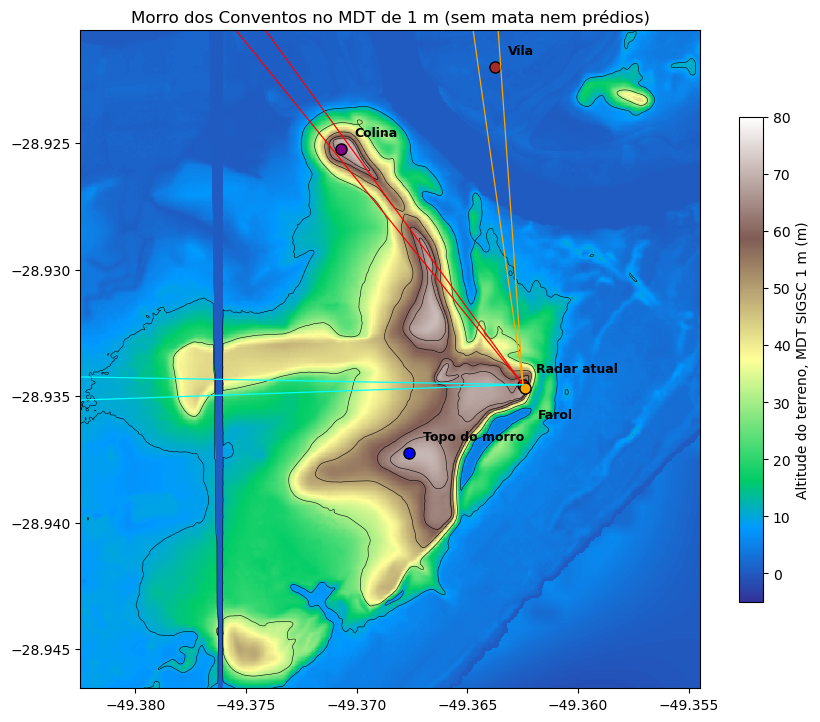
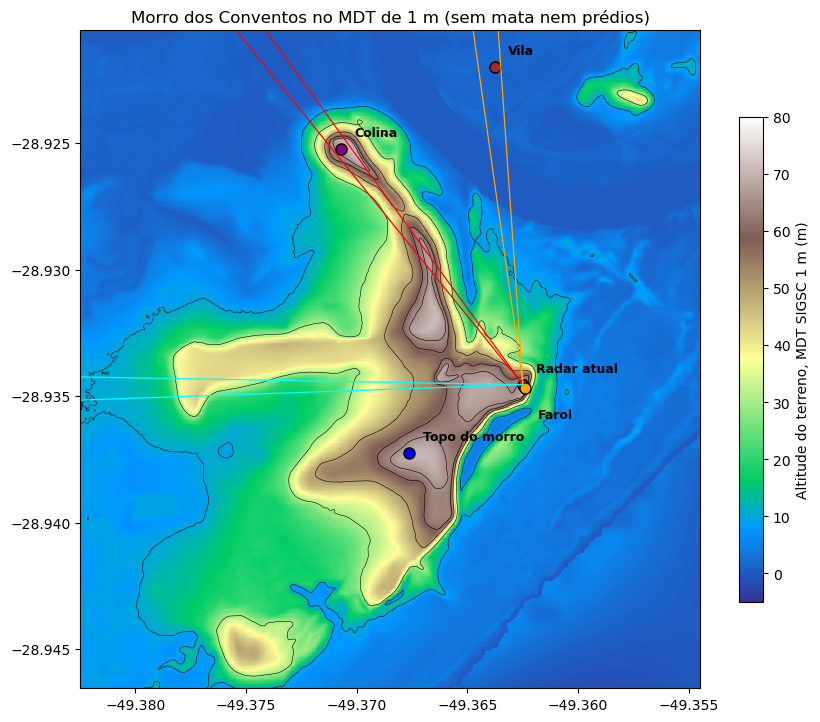
Imagens das últimas 8 h; corrige emendas do MDT do SIGSC
- recentes/: Chapecó e Araranguá até 20/11 14:12 UTC (Urubici sem imagens na REDEMET desde 16/11)
- relevo_sigsc.py: mosaico de 1 m usa o maior valor nas sobreposições, eliminando a moldura
  de 0/-9999 m das folhas que aparecia como faixa falsa no morro
- figuras e tabelas refeitas (números inalterados); nota no relatório

Changed region(s): [[0.2439, 0.3352, 0.2744, 0.9446], [0.2439, 0.2133, 0.2744, 0.3047]]

diff --git a/index.html b/index.html
@@ -39,8 +39,8 @@ footer { max-width: 1200px; margin: 0 auto; padding: 16px 16px 32px; color: var(
   <h1>Radar SC, últimas 6 horas</h1>
   <p>Radares de Santa Catarina: volumes do FTP da Defesa Civil de SC desenhados por <code>baixar_ftp_sc.py</code>. Abre no quadro mais recente.</p>
 </header>
-<main><figure class="cartao laco" data-quadros="[{&quot;src&quot;: &quot;recentes/ara/ppi/20261119_171651.png&quot;, &quot;rotulo&quot;: &quot;19/11 14:16 local · 17:16 UTC&quot;}, {&quot;src&quot;: &quot;recentes/ara/ppi/20261119_173115.png&quot;, &quot;rotulo&quot;: &quot;19/11 14:31 local · 17:31 UTC&quot;}, {&quot;src&quot;: &quot;recentes/ara/ppi/20261119_173521.png&quot;, &quot;rotulo&quot;: &quot;19/11 14:35 local · 17:35 UTC&quot;}, {&quot;src&quot;: &quot;recentes/ara/ppi/20261119_173724.png&quot;, &quot;rotulo&quot;: &quot;19/11 14:37 local · 17:37 UTC&quot;}, {&quot;src&quot;: &quot;recentes/ara/ppi/20261119_173926.png&quot;, &quot;rotulo&quot;: &quot;19/11 14:39 local · 17:39 UTC&quot;}, {&quot;src&quot;: &quot;recentes/ara/ppi/20261119_174129.png&quot;, &quot;rotulo&quot;: &quot;19/11 14:41 local · 17:41 UTC&quot;}, {&quot;src&quot;: &quot;recentes/ara/ppi/20261119_174332.png&quot;, &quot;rotulo&quot;: &quot;19/11 14:43 local · 17:43 UTC&quot;}, {&quot;src&quot;: &quot;recentes/ara/ppi/20261119_174536.png&quot;, &quot;rotulo&quot;: &quot;19/11 14:45 local · 17:45 UTC&quot;}, {&quot;src&quot;: &quot;recentes/ara/ppi/20261119_174739.png&quot;, &quot;rotulo&quot;: &quot;19/11 14:47 local · 17:47 UTC&quot;}, {&quot;src&quot;: &quot;recentes/ara/ppi/20261119_175553.png&quot;, &quot;rotulo&quot;: &quot;19/11 14:55 local · 17:55 UTC&quot;}, {&quot;src&quot;: &quot;recentes/ara/ppi/20261119_181015.png&quot;, &quot;rotulo&quot;: &quot;19/11 15:10 local · 18:10 UTC&quot;}, {&quot;src&quot;: &quot;recentes/ara/ppi/20261119_181218.png&quot;, &quot;rotulo&quot;: &quot;19/11 15:12 local · 18:12 UTC&quot;}, {&quot;src&quot;: &quot;recentes/ara/ppi/20261119_181624.png&quot;, &quot;rotulo&quot;: &quot;19/11 15:16 local · 18:16 UTC&quot;}, {&quot;src&quot;: &quot;recentes/ara/ppi/20261119_183452.png&quot;, &quot;rotulo&quot;: &quot;19/11 15:34 local · 18:34 UTC&quot;}, {&quot;src&quot;: &quot;recentes/ara/ppi/20261119_183858.png&quot;, &quot;rotulo&quot;: &quot;19/11 15:38 local · 18:38 UTC&quot;}, {&quot;src&quot;: &quot;recentes/ara/ppi/20261119_184507.png&quot;, &quot;rotulo&quot;: &quot;19/11 15:45 local · 18:45 UTC&quot;}, {&quot;src&quot;: &quot;recentes/ara/ppi/20261119_184913.png&quot;, &quot;rotulo&quot;: &quot;19/11 15:49 local · 18:49 UTC&quot;}, {&quot;src&quot;: &quot;recentes/ara/ppi/20261119_185116.png&quot;, &quot;rotulo&quot;: &quot;19/11 15:51 local · 18:51 UTC&quot;}, {&quot;src&quot;: &quot;recentes/ara/ppi/20261119_185522.png&quot;, &quot;rotulo&quot;: &quot;19/11 15:55 local · 18:55 UTC&quot;}, {&quot;src&quot;: &quot;recentes/ara/ppi/20261119_185725.png&quot;, &quot;rotulo&quot;: &quot;19/11 15:57 local · 18:57 UTC&quot;}, {&quot;src&quot;: &quot;recentes/ara/ppi/20261119_190540.png&quot;, &quot;rotulo&quot;: &quot;19/11 16:05 local · 19:05 UTC&quot;}, {&quot;src&quot;: &quot;recentes/ara/ppi/20261119_192408.png&quot;, &quot;rotulo&quot;: &quot;19/11 16:24 local · 19:24 UTC&quot;}, {&quot;src&quot;: &quot;recentes/ara/ppi/20261119_192612.png&quot;, &quot;rotulo&quot;: &quot;19/11 16:26 local · 19:26 UTC&quot;}, {&quot;src&quot;: &quot;recentes/ara/ppi/20261119_193018.png&quot;, &quot;rotulo&quot;: &quot;19/11 16:30 local · 19:30 UTC&quot;}, {&quot;src&quot;: &quot;recentes/ara/ppi/20261119_194236.png&quot;, &quot;rotulo&quot;: &quot;19/11 16:42 local · 19:42 UTC&quot;}, {&quot;src&quot;: &quot;recentes/ara/ppi/20261119_194440.png&quot;, &quot;rotulo&quot;: &quot;19/11 16:44 local · 19:44 UTC&quot;}, {&quot;src&quot;: &quot;recentes/ara/ppi/20261119_194644.png&quot;, &quot;rotulo&quot;: &quot;19/11 16:46 local · 19:46 UTC&quot;}, {&quot;src&quot;: &quot;recentes/ara/ppi/20261119_194847.png&quot;, &quot;rotulo&quot;: &quot;19/11 16:48 local · 19:48 UTC&quot;}, {&quot;src&quot;: &quot;recentes/ara/ppi/20261119_195659.png&quot;, &quot;rotulo&quot;: &quot;19/11 16:56 local · 19:56 UTC&quot;}, {&quot;src&quot;: &quot;recentes/ara/ppi/20261119_195902.png&quot;, &quot;rotulo&quot;: &quot;19/11 16:59 local · 19:59 UTC&quot;}, {&quot;src&quot;: &quot;recentes/ara/ppi/20261119_200513.png&quot;, &quot;rotulo&quot;: &quot;19/11 17:05 local · 20:05 UTC&quot;}, {&quot;src&quot;: &quot;recentes/ara/ppi/20261119_200919.png&quot;, &quot;rotulo&quot;: &quot;19/11 17:09 local · 20:09 UTC&quot;}, {&quot;src&quot;: &quot;recentes/ara/ppi/20261119_201325.png&quot;, &quot;rotulo&quot;: &quot;19/11 17:13 local · 20:13 UTC&quot;}, {&quot;src&quot;: &quot;recentes/ara/ppi/20261119_201933.png&quot;, &quot;rotulo&quot;: &quot;19/11 17:19 local · 20:19 UTC&quot;}, {&quot;src&quot;: &quot;recentes/ara/ppi/20261119_202136.png&quot;, &quot;rotulo&quot;: &quot;19/11 17:21 local · 20:21 UTC&quot;}, {&quot;src&quot;: &quot;recentes/ara/ppi/20261119_202542.png&quot;, &quot;rotulo&quot;: &quot;19/11 17:25 local · 20:25 UTC&quot;}, {&quot;src&quot;: &quot;recentes/ara/ppi/20261119_202745.png&quot;, &quot;rotulo&quot;: &quot;19/11 17:27 local · 20:27 UTC&quot;}, {&quot;src&quot;: &quot;recentes/ara/ppi/20261119_202948.png&quot;, &quot;rotulo&quot;: &quot;19/11 17:29 local · 20:29 UTC&quot;}, {&quot;src&quot;: &quot;recentes/ara/ppi/20261119_203151.png&quot;, &quot;rotulo&quot;: &quot;19/11 17:31 local · 20:31 UTC&quot;}, {&quot;src&quot;: &quot;recentes/ara/ppi/20261119_204207.png&quot;, &quot;rotulo&quot;: &quot;19/11 17:42 local · 20:42 UTC&quot;}, {&quot;src&quot;: &quot;recentes/ara/ppi/20261119_204410.png&quot;, &quot;rotulo&quot;: &quot;19/11 17:44 local · 20:44 UTC&quot;}, {&quot;src&quot;: &quot;recentes/ara/ppi/20261119_204613.png&quot;, &quot;rotulo&quot;: &quot;19/11 17:46 local · 20:46 UTC&quot;}, {&quot;src&quot;: &quot;recentes/ara/ppi/20261119_205223.png&quot;, &quot;rotulo&quot;: &quot;19/11 17:52 local · 20:52 UTC&quot;}, {&quot;src&quot;: &quot;recentes/ara/ppi/20261119_210444.png&quot;, &quot;rotulo&quot;: &quot;19/11 18:04 local · 21:04 UTC&quot;}, {&quot;src&quot;: &quot;recentes/ara/ppi/20261119_210850.png&quot;, &quot;rotulo&quot;: &quot;19/11 18:08 local · 21:08 UTC&quot;}, {&quot;src&quot;: &quot;recentes/ara/ppi/20261119_211256.png&quot;, &quot;rotulo&quot;: &quot;19/11 18:12 local · 21:12 UTC&quot;}, {&quot;src&quot;: &quot;recentes/ara/ppi/20261119_212517.png&quot;, &quot;rotulo&quot;: &quot;19/11 18:25 local · 21:25 UTC&quot;}, {&quot;src&quot;: &quot;recentes/ara/ppi/20261119_212924.png&quot;, &quot;rotulo&quot;: &quot;19/11 18:29 local · 21:29 UTC&quot;}, {&quot;src&quot;: &quot;recentes/ara/ppi/20261119_213738.png&quot;, &quot;rotulo&quot;: &quot;19/11 18:37 local · 21:37 UTC&quot;}, {&quot;src&quot;: &quot;recentes/ara/ppi/20261119_214550.png&quot;, &quot;rotulo&quot;: &quot;19/11 18:45 local · 21:45 UTC&quot;}, {&quot;src&quot;: &quot;recentes/ara/ppi/20261119_215204.png&quot;, &quot;rotulo&quot;: &quot;19/11 18:52 local · 21:52 UTC&quot;}, {&quot;src&quot;: &quot;recentes/ara/ppi/20261119_230358.png&quot;, &quot;rotulo&quot;: &quot;19/11 20:03 local · 23:03 UTC&quot;}, {&quot;src&quot;: &quot;recentes/ara/ppi/20261119_230601.png&quot;, &quot;rotulo&quot;: &quot;19/11 20:06 local · 23:06 UTC&quot;}, {&quot;src&quot;: &quot;recentes/ara/ppi/20261119_231413.png&quot;, &quot;rotulo&quot;: &quot;19/11 20:14 local · 23:14 UTC&quot;}, {&quot;src&quot;: &quot;recentes/ara/ppi/20261119_233648.png&quot;, &quot;rotulo&quot;: &quot;19/11 20:36 local · 23:36 UTC&quot;}]"><div class="quadro"><img src="recentes/ara/ppi/20261119_233648.png" alt="Araranguá (Defesa Civil SC) · refletividade, elevação mais baixa"></div><div class="controles"><button type="button" class="tocar" aria-label="Tocar">▶</button><input type="range" min="0" max="54" value="54" aria-label="Quadro"><select aria-label="Velocidade"><option value="900">lento</option><option value="450" selected>normal</option><option value="180">rápido</option></select><output>19/11 20:36 local · 23:36 UTC</output></div><figcaption><h2>Araranguá (Defesa Civil SC) · refletividade, elevação mais baixa</h2><p>55 quadros, de 19/11 14:16 local · 17:16 UTC a 19/11 20:36 local · 23:36 UTC.</p></figcaption></figure><figure class="cartao laco" data-quadros="[{&quot;src&quot;: &quot;recentes/chp/ppi/20261119_171204.png&quot;, &quot;rotulo&quot;: &quot;19/11 14:12 local · 17:12 UTC&quot;}, {&quot;src&quot;: &quot;recentes/chp/ppi/20261119_171804.png&quot;, &quot;rotulo&quot;: &quot;19/11 14:18 local · 17:18 UTC&quot;}, {&quot;src&quot;: &quot;recentes/chp/ppi/20261119_172404.png&quot;, &quot;rotulo&quot;: &quot;19/11 14:24 local · 17:24 UTC&quot;}, {&quot;src&quot;: &quot;recentes/chp/ppi/20261119_173004.png&quot;, &quot;rotulo&quot;: &quot;19/11 14:30 local · 17:30 UTC&quot;}, {&quot;src&quot;: &quot;recentes/chp/ppi/20261119_173604.png&quot;, &quot;rotulo&quot;: &quot;19/11 14:36 local · 17:36 UTC&quot;}, {&quot;src&quot;: &quot;recentes/chp/ppi/20261119_174204.png&quot;, &quot;rotulo&quot;: &quot;19/11 14:42 local · 17:42 UTC&quot;}, {&quot;src&quot;: &quot;recentes/chp/ppi/20261119_174804.png&quot;, &quot;rotulo&quot;: &quot;19/11 14:48 local · 17:48 UTC&quot;}, {&quot;src&quot;: &quot;recentes/chp/ppi/20261119_175404.png&quot;, &quot;rotulo&quot;: &quot;19/11 14:54 local · 17:54 UTC&quot;}, {&quot;src&quot;: &quot;recentes/chp/ppi/20261119_180004.png&quot;, &quot;rotulo&quot;: &quot;19/11 15:00 local · 18:00 UTC&quot;}, {&quot;src&quot;: &quot;recentes/chp/ppi/20261119_180604.png&quot;, &quot;rotulo&quot;: &quot;19/11 15:06 local · 18:06 UTC&quot;}, {&quot;src&quot;: &quot;recentes/chp/ppi/20261119_181204.png&quot;, &quot;rotulo&quot;: &quot;19/11 15:12 local · 18:12 UTC&quot;}, {&quot;src&quot;: &quot;recentes/chp/ppi/20261119_181804.png&quot;, &quot;rotulo&quot;: &quot;19/11 15:18 local · 18:18 UTC&quot;}, {&quot;src&quot;: &quot;recentes/chp/ppi/20261119_182404.png&quot;, &quot;rotulo&quot;: &quot;19/11 15:24 local · 18:24 UTC&quot;}, {&quot;src&quot;: &quot;recentes/chp/ppi/20261119_183004.png&quot;, &quot;rotulo&quot;: &quot;19/11 15:30 local · 18:30 UTC&quot;}, {&quot;src&quot;: &quot;recentes/chp/ppi/20261119_183604.png&quot;, &quot;rotulo&quot;: &quot;19/11 15:36 local · 18:36 UTC&quot;}, {&quot;src&quot;: &quot;recentes/chp/ppi/20261119_184204.png&quot;, &quot;rotulo&quot;: &quot;19/11 15:42 local · 18:42 UTC&quot;}, {&quot;src&quot;: &quot;recentes/chp/ppi/20261119_184804.png&quot;, &quot;rotulo&quot;: &quot;19/11 15:48 local · 18:48 UTC&quot;}, {&quot;src&quot;: &quot;recentes/chp/ppi/20261119_185404.png&quot;, &quot;rotulo&quot;: &quot;19/11 15:54 local · 18:54 UTC&quot;}, {&quot;src&quot;: &quot;recentes/chp/ppi/20261119_190004.png&quot;, &quot;rotulo&quot;: &quot;19/11 16:00 local · 19:00 UTC&quot;}, {&quot;src&quot;: &quot;recentes/chp/ppi/20261119_190604.png&quot;, &quot;rotulo&quot;: &quot;19/11 16:06 local · 19:06 UTC&quot;}, {&quot;src&quot;: &quot;recentes/chp/ppi/20261119_191204.png&quot;, &quot;rotulo&quot;: &quot;19/11 16:12 local · 19:12 UTC&quot;}, {&quot;src&quot;: &quot;recentes/chp/ppi/20261119_191804.png&quot;, &quot;rotulo&quot;: &quot;19/11 16:18 local · 19:18 UTC&quot;}, {&quot;src&quot;: &quot;recentes/chp/ppi/20261119_193604.png&quot;, &quot;rotulo&quot;: &quot;19/11 16:36 local · 19:36 UTC&quot;}, {&quot;src&quot;: &quot;recentes/chp/ppi/20261119_195404.png&quot;, &quot;rotulo&quot;: &quot;19/11 16:54 local · 19:54 UTC&quot;}, {&quot;src&quot;: &quot;recentes/chp/ppi/20261119_200004.png&quot;, &quot;rotulo&quot;: &quot;19/11 17:00 local · 20:00 UTC&quot;}, {&quot;src&quot;: &quot;recentes/chp/ppi/20261119_200604.png&quot;, &quot;rotulo&quot;: &quot;19/11 17:06 local · 20:06 UTC&quot;}, {&quot;src&quot;: &quot;recentes/chp/ppi/20261119_201204.png&quot;, &quot;rotulo&quot;: &quot;19/11 17:12 local · 20:12 UTC&quot;}, {&quot;src&quot;: &quot;recentes/chp/ppi/20261119_201804.png&quot;, &quot;rotulo&quot;: &quot;19/11 17:18 local · 20:18 UTC&quot;}, {&quot;src&quot;: &quot;recentes/chp/ppi/20261119_202404.png&quot;, &quot;rotulo&quot;: &quot;19/11 17:24 local · 20:24 UTC&quot;}, {&quot;src&quot;: &quot;recentes/chp/ppi/20261119_203004.png&quot;, &quot;rotulo&quot;: &quot;19/11 17:30 local · 20:30 UTC&quot;}, {&quot;src&quot;: &quot;recentes/chp/ppi/20261119_203604.png&quot;, &quot;rotulo&quot;: &quot;19/11 17:36 local · 20:36 UTC&quot;}, {&quot;src&quot;: &quot;recentes/chp/ppi/20261119_204204.png&quot;, &quot;rotulo&quot;: &quot;19/11 17:42 local · 20:42 UTC&quot;}, {&quot;src&quot;: &quot;recentes/chp/ppi/20261119_204804.png&quot;, &quot;rotulo&quot;: &quot;19/11 17:48 local · 20:48 UTC&quot;}, {&quot;src&quot;: &quot;recentes/chp/ppi/20261119_205404.png&quot;, &quot;rotulo&quot;: &quot;19/11 17:54 local · 20:54 UTC&quot;}, {&quot;src&quot;: &quot;recentes/chp/ppi/20261119_210004.png&quot;, &quot;rotulo&quot;: &quot;19/11 18:00 local · 21:00 UTC&quot;}, {&quot;src&quot;: &quot;recentes/chp/ppi/20261119_210605.png&quot;, &quot;rotulo&quot;: &quot;19/11 18:06 local · 21:06 UTC&quot;}, {&quot;src&quot;: &quot;recentes/chp/ppi/20261119_211205.png&quot;, &quot;rotulo&quot;: &quot;19/11 18:12 local · 21:12 UTC&quot;}, {&quot;src&quot;: &quot;recentes/chp/ppi/20261119_211805.png&quot;, &quot;rotulo&quot;: &quot;19/11 18:18 local · 21:18 UTC&quot;}, {&quot;src&quot;: &quot;recentes/chp/ppi/20261119_212405.png&quot;, &quot;rotulo&quot;: &quot;19/11 18:24 local · 21:24 UTC&quot;}, {&quot;src&quot;: &quot;recentes/chp/ppi/20261119_213005.png&quot;, &quot;rotulo&quot;: &quot;19/11 18:30 local · 21:30 UTC&quot;}, {&quot;src&quot;: &quot;recentes/chp/ppi/20261119_213605.png&quot;, &quot;rotulo&quot;: &quot;19/11 18:36 local · 21:36 UTC&quot;}, {&quot;src&quot;: &quot;recentes/chp/ppi/20261119_214205.png&quot;, &quot;rotulo&quot;: &quot;19/11 18:42 local · 21:42 UTC&quot;}, {&quot;src&quot;: &quot;recentes/chp/ppi/20261119_214805.png&quot;, &quot;rotulo&quot;: &quot;19/11 18:48 local · 21:48 UTC&quot;}, {&quot;src&quot;: &quot;recentes/chp/ppi/20261119_215404.png&quot;, &quot;rotulo&quot;: &quot;19/11 18:54 local · 21:54 UTC&quot;}, {&quot;src&quot;: &quot;recentes/chp/ppi/20261119_220005.png&quot;, &quot;rotulo&quot;: &quot;19/11 19:00 local · 22:00 UTC&quot;}, {&quot;src&quot;: &quot;recentes/chp/ppi/20261119_220605.png&quot;, &quot;rotulo&quot;: &quot;19/11 19:06 local · 22:06 UTC&quot;}, {&quot;src&quot;: &quot;recentes/chp/ppi/20261119_221205.png&quot;, &quot;rotulo&quot;: &quot;19/11 19:12 local · 22:12 UTC&quot;}, {&quot;src&quot;: &quot;recentes/chp/ppi/20261119_221804.png&quot;, &quot;rotulo&quot;: &quot;19/11 19:18 local · 22:18 UTC&quot;}, {&quot;src&quot;: &quot;recentes/chp/ppi/20261119_222405.png&quot;, &quot;rotulo&quot;: &quot;19/11 19:24 local · 22:24 UTC&quot;}, {&quot;src&quot;: &quot;recentes/chp/ppi/20261119_223005.png&quot;, &quot;rotulo&quot;: &quot;19/11 19:30 local · 22:30 UTC&quot;}, {&quot;src&quot;: &quot;recentes/chp/ppi/20261119_223605.png&quot;, &quot;rotulo&quot;: &quot;19/11 19:36 local · 22:36 UTC&quot;}, {&quot;src&quot;: &quot;recentes/chp/ppi/20261119_224205.png&quot;, &quot;rotulo&quot;: &quot;19/11 19:42 local · 22:42 UTC&quot;}, {&quot;src&quot;: &quot;recentes/chp/ppi/20261119_224805.png&quot;, &quot;rotulo&quot;: &quot;19/11 19:48 local · 22:48 UTC&quot;}, {&quot;src&quot;: &quot;recentes/chp/ppi/20261119_225405.png&quot;, &quot;rotulo&quot;: &quot;19/11 19:54 local · 22:54 UTC&quot;}, {&quot;src&quot;: &quot;recentes/chp/ppi/20261119_230005.png&quot;, &quot;rotulo&quot;: &quot;19/11 20:00 local · 23:00 UTC&quot;}, {&quot;src&quot;: &quot;recentes/chp/ppi/20261119_230605.png&quot;, &quot;rotulo&quot;: &quot;19/11 20:06 local · 23:06 UTC&quot;}]"><div class="quadro"><img src="recentes/chp/ppi/20261119_230605.png" alt="Chapecó (Defesa Civil SC) · refletividade, elevação mais baixa"></div><div class="controles"><button type="button" class="tocar" aria-label="Tocar">▶</button><input type="range" min="0" max="55" value="55" aria-label="Quadro"><select aria-label="Velocidade"><option value="900">lento</option><option value="450" selected>normal</option><option value="180">rápido</option></select><output>19/11 20:06 local · 23:06 UTC</output></div><figcaption><h2>Chapecó (Defesa Civil SC) · refletividade, elevação mais baixa</h2><p>56 quadros, de 19/11 14:12 local · 17:12 UTC a 19/11 20:06 local · 23:06 UTC.</p></figcaption></figure></main>
-<footer>Atualizado em 19/11/2026 21:09 local (00:09 UTC). Fonte: Defesa Civil de SC.</footer>
+<main><figure class="cartao laco" data-quadros="[{&quot;src&quot;: &quot;recentes/ara/ppi/20261120_061508.png&quot;, &quot;rotulo&quot;: &quot;20/11 03:15 local · 06:15 UTC&quot;}, {&quot;src&quot;: &quot;recentes/ara/ppi/20261120_061711.png&quot;, &quot;rotulo&quot;: &quot;20/11 03:17 local · 06:17 UTC&quot;}, {&quot;src&quot;: &quot;recentes/ara/ppi/20261120_062118.png&quot;, &quot;rotulo&quot;: &quot;20/11 03:21 local · 06:21 UTC&quot;}, {&quot;src&quot;: &quot;recentes/ara/ppi/20261120_062321.png&quot;, &quot;rotulo&quot;: &quot;20/11 03:23 local · 06:23 UTC&quot;}, {&quot;src&quot;: &quot;recentes/ara/ppi/20261120_062932.png&quot;, &quot;rotulo&quot;: &quot;20/11 03:29 local · 06:29 UTC&quot;}, {&quot;src&quot;: &quot;recentes/ara/ppi/20261120_064150.png&quot;, &quot;rotulo&quot;: &quot;20/11 03:41 local · 06:41 UTC&quot;}, {&quot;src&quot;: &quot;recentes/ara/ppi/20261120_064556.png&quot;, &quot;rotulo&quot;: &quot;20/11 03:45 local · 06:45 UTC&quot;}, {&quot;src&quot;: &quot;recentes/ara/ppi/20261120_065002.png&quot;, &quot;rotulo&quot;: &quot;20/11 03:50 local · 06:50 UTC&quot;}, {&quot;src&quot;: &quot;recentes/ara/ppi/20261120_065205.png&quot;, &quot;rotulo&quot;: &quot;20/11 03:52 local · 06:52 UTC&quot;}, {&quot;src&quot;: &quot;recentes/ara/ppi/20261120_065611.png&quot;, &quot;rotulo&quot;: &quot;20/11 03:56 local · 06:56 UTC&quot;}, {&quot;src&quot;: &quot;recentes/ara/ppi/20261120_070017.png&quot;, &quot;rotulo&quot;: &quot;20/11 04:00 local · 07:00 UTC&quot;}, {&quot;src&quot;: &quot;recentes/ara/ppi/20261120_070220.png&quot;, &quot;rotulo&quot;: &quot;20/11 04:02 local · 07:02 UTC&quot;}, {&quot;src&quot;: &quot;recentes/ara/ppi/20261120_070423.png&quot;, &quot;rotulo&quot;: &quot;20/11 04:04 local · 07:04 UTC&quot;}, {&quot;src&quot;: &quot;recentes/ara/ppi/20261120_071438.png&quot;, &quot;rotulo&quot;: &quot;20/11 04:14 local · 07:14 UTC&quot;}, {&quot;src&quot;: &quot;recentes/ara/ppi/20261120_073508.png&quot;, &quot;rotulo&quot;: &quot;20/11 04:35 local · 07:35 UTC&quot;}, {&quot;src&quot;: &quot;recentes/ara/ppi/20261120_073914.png&quot;, &quot;rotulo&quot;: &quot;20/11 04:39 local · 07:39 UTC&quot;}, {&quot;src&quot;: &quot;recentes/ara/ppi/20261120_074726.png&quot;, &quot;rotulo&quot;: &quot;20/11 04:47 local · 07:47 UTC&quot;}, {&quot;src&quot;: &quot;recentes/ara/ppi/20261120_075132.png&quot;, &quot;rotulo&quot;: &quot;20/11 04:51 local · 07:51 UTC&quot;}, {&quot;src&quot;: &quot;recentes/ara/ppi/20261120_075335.png&quot;, &quot;rotulo&quot;: &quot;20/11 04:53 local · 07:53 UTC&quot;}, {&quot;src&quot;: &quot;recentes/ara/ppi/20261120_075944.png&quot;, &quot;rotulo&quot;: &quot;20/11 04:59 local · 07:59 UTC&quot;}, {&quot;src&quot;: &quot;recentes/ara/ppi/20261120_080146.png&quot;, &quot;rotulo&quot;: &quot;20/11 05:01 local · 08:01 UTC&quot;}, {&quot;src&quot;: &quot;recentes/ara/ppi/20261120_080553.png&quot;, &quot;rotulo&quot;: &quot;20/11 05:05 local · 08:05 UTC&quot;}, {&quot;src&quot;: &quot;recentes/ara/ppi/20261120_081000.png&quot;, &quot;rotulo&quot;: &quot;20/11 05:10 local · 08:10 UTC&quot;}, {&quot;src&quot;: &quot;recentes/ara/ppi/20261120_081203.png&quot;, &quot;rotulo&quot;: &quot;20/11 05:12 local · 08:12 UTC&quot;}, {&quot;src&quot;: &quot;recentes/ara/ppi/20261120_082218.png&quot;, &quot;rotulo&quot;: &quot;20/11 05:22 local · 08:22 UTC&quot;}, {&quot;src&quot;: &quot;recentes/ara/ppi/20261120_082420.png&quot;, &quot;rotulo&quot;: &quot;20/11 05:24 local · 08:24 UTC&quot;}, {&quot;src&quot;: &quot;recentes/ara/ppi/20261120_082623.png&quot;, &quot;rotulo&quot;: &quot;20/11 05:26 local · 08:26 UTC&quot;}, {&quot;src&quot;: &quot;recentes/ara/ppi/20261120_082826.png&quot;, &quot;rotulo&quot;: &quot;20/11 05:28 local · 08:28 UTC&quot;}, {&quot;src&quot;: &quot;recentes/ara/ppi/20261120_083232.png&quot;, &quot;rotulo&quot;: &quot;20/11 05:32 local · 08:32 UTC&quot;}, {&quot;src&quot;: &quot;recentes/ara/ppi/20261120_083435.png&quot;, &quot;rotulo&quot;: &quot;20/11 05:34 local · 08:34 UTC&quot;}, {&quot;src&quot;: &quot;recentes/ara/ppi/20261120_084247.png&quot;, &quot;rotulo&quot;: &quot;20/11 05:42 local · 08:42 UTC&quot;}, {&quot;src&quot;: &quot;recentes/ara/ppi/20261120_085100.png&quot;, &quot;rotulo&quot;: &quot;20/11 05:51 local · 08:51 UTC&quot;}, {&quot;src&quot;: &quot;recentes/ara/ppi/20261120_085302.png&quot;, &quot;rotulo&quot;: &quot;20/11 05:53 local · 08:53 UTC&quot;}, {&quot;src&quot;: &quot;recentes/ara/ppi/20261120_085505.png&quot;, &quot;rotulo&quot;: &quot;20/11 05:55 local · 08:55 UTC&quot;}, {&quot;src&quot;: &quot;recentes/ara/ppi/20261120_085708.png&quot;, &quot;rotulo&quot;: &quot;20/11 05:57 local · 08:57 UTC&quot;}, {&quot;src&quot;: &quot;recentes/ara/ppi/20261120_090114.png&quot;, &quot;rotulo&quot;: &quot;20/11 06:01 local · 09:01 UTC&quot;}, {&quot;src&quot;: &quot;recentes/ara/ppi/20261120_090521.png&quot;, &quot;rotulo&quot;: &quot;20/11 06:05 local · 09:05 UTC&quot;}, {&quot;src&quot;: &quot;recentes/ara/ppi/20261120_091130.png&quot;, &quot;rotulo&quot;: &quot;20/11 06:11 local · 09:11 UTC&quot;}, {&quot;src&quot;: &quot;recentes/ara/ppi/20261120_091536.png&quot;, &quot;rotulo&quot;: &quot;20/11 06:15 local · 09:15 UTC&quot;}, {&quot;src&quot;: &quot;recentes/ara/ppi/20261120_091739.png&quot;, &quot;rotulo&quot;: &quot;20/11 06:17 local · 09:17 UTC&quot;}, {&quot;src&quot;: &quot;recentes/ara/ppi/20261120_091942.png&quot;, &quot;rotulo&quot;: &quot;20/11 06:19 local · 09:19 UTC&quot;}, {&quot;src&quot;: &quot;recentes/ara/ppi/20261120_092145.png&quot;, &quot;rotulo&quot;: &quot;20/11 06:21 local · 09:21 UTC&quot;}, {&quot;src&quot;: &quot;recentes/ara/ppi/20261120_092957.png&quot;, &quot;rotulo&quot;: &quot;20/11 06:29 local · 09:29 UTC&quot;}, {&quot;src&quot;: &quot;recentes/ara/ppi/20261120_093809.png&quot;, &quot;rotulo&quot;: &quot;20/11 06:38 local · 09:38 UTC&quot;}, {&quot;src&quot;: &quot;recentes/ara/ppi/20261120_094012.png&quot;, &quot;rotulo&quot;: &quot;20/11 06:40 local · 09:40 UTC&quot;}, {&quot;src&quot;: &quot;recentes/ara/ppi/20261120_095027.png&quot;, &quot;rotulo&quot;: &quot;20/11 06:50 local · 09:50 UTC&quot;}, {&quot;src&quot;: &quot;recentes/ara/ppi/20261120_100654.png&quot;, &quot;rotulo&quot;: &quot;20/11 07:06 local · 10:06 UTC&quot;}, {&quot;src&quot;: &quot;recentes/ara/ppi/20261120_101304.png&quot;, &quot;rotulo&quot;: &quot;20/11 07:13 local · 10:13 UTC&quot;}, {&quot;src&quot;: &quot;recentes/ara/ppi/20261120_102929.png&quot;, &quot;rotulo&quot;: &quot;20/11 07:29 local · 10:29 UTC&quot;}, {&quot;src&quot;: &quot;recentes/ara/ppi/20261120_103741.png&quot;, &quot;rotulo&quot;: &quot;20/11 07:37 local · 10:37 UTC&quot;}, {&quot;src&quot;: &quot;recentes/ara/ppi/20261120_103944.png&quot;, &quot;rotulo&quot;: &quot;20/11 07:39 local · 10:39 UTC&quot;}, {&quot;src&quot;: &quot;recentes/ara/ppi/20261120_104147.png&quot;, &quot;rotulo&quot;: &quot;20/11 07:41 local · 10:41 UTC&quot;}, {&quot;src&quot;: &quot;recentes/ara/ppi/20261120_104554.png&quot;, &quot;rotulo&quot;: &quot;20/11 07:45 local · 10:45 UTC&quot;}, {&quot;src&quot;: &quot;recentes/ara/ppi/20261120_110624.png&quot;, &quot;rotulo&quot;: &quot;20/11 08:06 local · 11:06 UTC&quot;}, {&quot;src&quot;: &quot;recentes/ara/ppi/20261120_111232.png&quot;, &quot;rotulo&quot;: &quot;20/11 08:12 local · 11:12 UTC&quot;}, {&quot;src&quot;: &quot;recentes/ara/ppi/20261120_111841.png&quot;, &quot;rotulo&quot;: &quot;20/11 08:18 local · 11:18 UTC&quot;}, {&quot;src&quot;: &quot;recentes/ara/ppi/20261120_112044.png&quot;, &quot;rotulo&quot;: &quot;20/11 08:20 local · 11:20 UTC&quot;}, {&quot;src&quot;: &quot;recentes/ara/ppi/20261120_115737.png&quot;, &quot;rotulo&quot;: &quot;20/11 08:57 local · 11:57 UTC&quot;}, {&quot;src&quot;: &quot;recentes/ara/ppi/20261120_124449.png&quot;, &quot;rotulo&quot;: &quot;20/11 09:44 local · 12:44 UTC&quot;}, {&quot;src&quot;: &quot;recentes/ara/ppi/20261120_125306.png&quot;, &quot;rotulo&quot;: &quot;20/11 09:53 local · 12:53 UTC&quot;}, {&quot;src&quot;: &quot;recentes/ara/ppi/20261120_125915.png&quot;, &quot;rotulo&quot;: &quot;20/11 09:59 local · 12:59 UTC&quot;}, {&quot;src&quot;: &quot;recentes/ara/ppi/20261120_130525.png&quot;, &quot;rotulo&quot;: &quot;20/11 10:05 local · 13:05 UTC&quot;}, {&quot;src&quot;: &quot;recentes/ara/ppi/20261120_132559.png&quot;, &quot;rotulo&quot;: &quot;20/11 10:25 local · 13:25 UTC&quot;}, {&quot;src&quot;: &quot;recentes/ara/ppi/20261120_133208.png&quot;, &quot;rotulo&quot;: &quot;20/11 10:32 local · 13:32 UTC&quot;}, {&quot;src&quot;: &quot;recentes/ara/ppi/20261120_133818.png&quot;, &quot;rotulo&quot;: &quot;20/11 10:38 local · 13:38 UTC&quot;}, {&quot;src&quot;: &quot;recentes/ara/ppi/20261120_135036.png&quot;, &quot;rotulo&quot;: &quot;20/11 10:50 local · 13:50 UTC&quot;}, {&quot;src&quot;: &quot;recentes/ara/ppi/20261120_135645.png&quot;, &quot;rotulo&quot;: &quot;20/11 10:56 local · 13:56 UTC&quot;}, {&quot;src&quot;: &quot;recentes/ara/ppi/20261120_135848.png&quot;, &quot;rotulo&quot;: &quot;20/11 10:58 local · 13:58 UTC&quot;}, {&quot;src&quot;: &quot;recentes/ara/ppi/20261120_140700.png&quot;, &quot;rotulo&quot;: &quot;20/11 11:07 local · 14:07 UTC&quot;}]"><div class="quadro"><img src="recentes/ara/ppi/20261120_140700.png" alt="Araranguá (Defesa Civil SC) · refletividade, elevação mais baixa"></div><div class="controles"><button type="button" class="tocar" aria-label="Tocar">▶</button><input type="range" min="0" max="68" value="68" aria-label="Quadro"><select aria-label="Velocidade"><option value="900">lento</option><option value="450" selected>normal</option><option value="180">rápido</option></select><output>20/11 11:07 local · 14:07 UTC</output></div><figcaption><h2>Araranguá (Defesa Civil SC) · refletividade, elevação mais baixa</h2><p>69 quadros, de 20/11 03:15 local · 06:15 UTC a 20/11 11:07 local · 14:07 UTC.</p></figcaption></figure><figure class="cartao laco" data-quadros="[{&quot;src&quot;: &quot;recentes/chp/ppi/20261120_061804.png&quot;, &quot;rotulo&quot;: &quot;20/11 03:18 local · 06:18 UTC&quot;}, {&quot;src&quot;: &quot;recentes/chp/ppi/20261120_062404.png&quot;, &quot;rotulo&quot;: &quot;20/11 03:24 local · 06:24 UTC&quot;}, {&quot;src&quot;: &quot;recentes/chp/ppi/20261120_063004.png&quot;, &quot;rotulo&quot;: &quot;20/11 03:30 local · 06:30 UTC&quot;}, {&quot;src&quot;: &quot;recentes/chp/ppi/20261120_063604.png&quot;, &quot;rotulo&quot;: &quot;20/11 03:36 local · 06:36 UTC&quot;}, {&quot;src&quot;: &quot;recentes/chp/ppi/20261120_064204.png&quot;, &quot;rotulo&quot;: &quot;20/11 03:42 local · 06:42 UTC&quot;}, {&quot;src&quot;: &quot;recentes/chp/ppi/20261120_064804.png&quot;, &quot;rotulo&quot;: &quot;20/11 03:48 local · 06:48 UTC&quot;}, {&quot;src&quot;: &quot;recentes/chp/ppi/20261120_065404.png&quot;, &quot;rotulo&quot;: &quot;20/11 03:54 local · 06:54 UTC&quot;}, {&quot;src&quot;: &quot;recentes/chp/ppi/20261120_070004.png&quot;, &quot;rotulo&quot;: &quot;20/11 04:00 local · 07:00 UTC&quot;}, {&quot;src&quot;: &quot;recentes/chp/ppi/20261120_070604.png&quot;, &quot;rotulo&quot;: &quot;20/11 04:06 local · 07:06 UTC&quot;}, {&quot;src&quot;: &quot;recentes/chp/ppi/20261120_071204.png&quot;, &quot;rotulo&quot;: &quot;20/11 04:12 local · 07:12 UTC&quot;}, {&quot;src&quot;: &quot;recentes/chp/ppi/20261120_071804.png&quot;, &quot;rotulo&quot;: &quot;20/11 04:18 local · 07:18 UTC&quot;}, {&quot;src&quot;: &quot;recentes/chp/ppi/20261120_072404.png&quot;, &quot;rotulo&quot;: &quot;20/11 04:24 local · 07:24 UTC&quot;}, {&quot;src&quot;: &quot;recentes/chp/ppi/20261120_073004.png&quot;, &quot;rotulo&quot;: &quot;20/11 04:30 local · 07:30 UTC&quot;}, {&quot;src&quot;: &quot;recentes/chp/ppi/20261120_073604.png&quot;, &quot;rotulo&quot;: &quot;20/11 04:36 local · 07:36 UTC&quot;}, {&quot;src&quot;: &quot;recentes/chp/ppi/20261120_074204.png&quot;, &quot;rotulo&quot;: &quot;20/11 04:42 local · 07:42 UTC&quot;}, {&quot;src&quot;: &quot;recentes/chp/ppi/20261120_074804.png&quot;, &quot;rotulo&quot;: &quot;20/11 04:48 local · 07:48 UTC&quot;}, {&quot;src&quot;: &quot;recentes/chp/ppi/20261120_075404.png&quot;, &quot;rotulo&quot;: &quot;20/11 04:54 local · 07:54 UTC&quot;}, {&quot;src&quot;: &quot;recentes/chp/ppi/20261120_080004.png&quot;, &quot;rotulo&quot;: &quot;20/11 05:00 local · 08:00 UTC&quot;}, {&quot;src&quot;: &quot;recentes/chp/ppi/20261120_080604.png&quot;, &quot;rotulo&quot;: &quot;20/11 05:06 local · 08:06 UTC&quot;}, {&quot;src&quot;: &quot;recentes/chp/ppi/20261120_081204.png&quot;, &quot;rotulo&quot;: &quot;20/11 05:12 local · 08:12 UTC&quot;}, {&quot;src&quot;: &quot;recentes/chp/ppi/20261120_081804.png&quot;, &quot;rotulo&quot;: &quot;20/11 05:18 local · 08:18 UTC&quot;}, {&quot;src&quot;: &quot;recentes/chp/ppi/20261120_082404.png&quot;, &quot;rotulo&quot;: &quot;20/11 05:24 local · 08:24 UTC&quot;}, {&quot;src&quot;: &quot;recentes/chp/ppi/20261120_083004.png&quot;, &quot;rotulo&quot;: &quot;20/11 05:30 local · 08:30 UTC&quot;}, {&quot;src&quot;: &quot;recentes/chp/ppi/20261120_083604.png&quot;, &quot;rotulo&quot;: &quot;20/11 05:36 local · 08:36 UTC&quot;}, {&quot;src&quot;: &quot;recentes/chp/ppi/20261120_084204.png&quot;, &quot;rotulo&quot;: &quot;20/11 05:42 local · 08:42 UTC&quot;}, {&quot;src&quot;: &quot;recentes/chp/ppi/20261120_084804.png&quot;, &quot;rotulo&quot;: &quot;20/11 05:48 local · 08:48 UTC&quot;}, {&quot;src&quot;: &quot;recentes/chp/ppi/20261120_085404.png&quot;, &quot;rotulo&quot;: &quot;20/11 05:54 local · 08:54 UTC&quot;}, {&quot;src&quot;: &quot;recentes/chp/ppi/20261120_090004.png&quot;, &quot;rotulo&quot;: &quot;20/11 06:00 local · 09:00 UTC&quot;}, {&quot;src&quot;: &quot;recentes/chp/ppi/20261120_090604.png&quot;, &quot;rotulo&quot;: &quot;20/11 06:06 local · 09:06 UTC&quot;}, {&quot;src&quot;: &quot;recentes/chp/ppi/20261120_091204.png&quot;, &quot;rotulo&quot;: &quot;20/11 06:12 local · 09:12 UTC&quot;}, {&quot;src&quot;: &quot;recentes/chp/ppi/20261120_091804.png&quot;, &quot;rotulo&quot;: &quot;20/11 06:18 local · 09:18 UTC&quot;}, {&quot;src&quot;: &quot;recentes/chp/ppi/20261120_092404.png&quot;, &quot;rotulo&quot;: &quot;20/11 06:24 local · 09:24 UTC&quot;}, {&quot;src&quot;: &quot;recentes/chp/ppi/20261120_093004.png&quot;, &quot;rotulo&quot;: &quot;20/11 06:30 local · 09:30 UTC&quot;}, {&quot;src&quot;: &quot;recentes/chp/ppi/20261120_093604.png&quot;, &quot;rotulo&quot;: &quot;20/11 06:36 local · 09:36 UTC&quot;}, {&quot;src&quot;: &quot;recentes/chp/ppi/20261120_094204.png&quot;, &quot;rotulo&quot;: &quot;20/11 06:42 local · 09:42 UTC&quot;}, {&quot;src&quot;: &quot;recentes/chp/ppi/20261120_094804.png&quot;, &quot;rotulo&quot;: &quot;20/11 06:48 local · 09:48 UTC&quot;}, {&quot;src&quot;: &quot;recentes/chp/ppi/20261120_095404.png&quot;, &quot;rotulo&quot;: &quot;20/11 06:54 local · 09:54 UTC&quot;}, {&quot;src&quot;: &quot;recentes/chp/ppi/20261120_100004.png&quot;, &quot;rotulo&quot;: &quot;20/11 07:00 local · 10:00 UTC&quot;}, {&quot;src&quot;: &quot;recentes/chp/ppi/20261120_100604.png&quot;, &quot;rotulo&quot;: &quot;20/11 07:06 local · 10:06 UTC&quot;}, {&quot;src&quot;: &quot;recentes/chp/ppi/20261120_101204.png&quot;, &quot;rotulo&quot;: &quot;20/11 07:12 local · 10:12 UTC&quot;}, {&quot;src&quot;: &quot;recentes/chp/ppi/20261120_101804.png&quot;, &quot;rotulo&quot;: &quot;20/11 07:18 local · 10:18 UTC&quot;}, {&quot;src&quot;: &quot;recentes/chp/ppi/20261120_102404.png&quot;, &quot;rotulo&quot;: &quot;20/11 07:24 local · 10:24 UTC&quot;}, {&quot;src&quot;: &quot;recentes/chp/ppi/20261120_103004.png&quot;, &quot;rotulo&quot;: &quot;20/11 07:30 local · 10:30 UTC&quot;}, {&quot;src&quot;: &quot;recentes/chp/ppi/20261120_103604.png&quot;, &quot;rotulo&quot;: &quot;20/11 07:36 local · 10:36 UTC&quot;}, {&quot;src&quot;: &quot;recentes/chp/ppi/20261120_104204.png&quot;, &quot;rotulo&quot;: &quot;20/11 07:42 local · 10:42 UTC&quot;}, {&quot;src&quot;: &quot;recentes/chp/ppi/20261120_104804.png&quot;, &quot;rotulo&quot;: &quot;20/11 07:48 local · 10:48 UTC&quot;}, {&quot;src&quot;: &quot;recentes/chp/ppi/20261120_105404.png&quot;, &quot;rotulo&quot;: &quot;20/11 07:54 local · 10:54 UTC&quot;}, {&quot;src&quot;: &quot;recentes/chp/ppi/20261120_110004.png&quot;, &quot;rotulo&quot;: &quot;20/11 08:00 local · 11:00 UTC&quot;}, {&quot;src&quot;: &quot;recentes/chp/ppi/20261120_110604.png&quot;, &quot;rotulo&quot;: &quot;20/11 08:06 local · 11:06 UTC&quot;}, {&quot;src&quot;: &quot;recentes/chp/ppi/20261120_111204.png&quot;, &quot;rotulo&quot;: &quot;20/11 08:12 local · 11:12 UTC&quot;}, {&quot;src&quot;: &quot;recentes/chp/ppi/20261120_111804.png&quot;, &quot;rotulo&quot;: &quot;20/11 08:18 local · 11:18 UTC&quot;}, {&quot;src&quot;: &quot;recentes/chp/ppi/20261120_112404.png&quot;, &quot;rotulo&quot;: &quot;20/11 08:24 local · 11:24 UTC&quot;}, {&quot;src&quot;: &quot;recentes/chp/ppi/20261120_113004.png&quot;, &quot;rotulo&quot;: &quot;20/11 08:30 local · 11:30 UTC&quot;}, {&quot;src&quot;: &quot;recentes/chp/ppi/20261120_113604.png&quot;, &quot;rotulo&quot;: &quot;20/11 08:36 local · 11:36 UTC&quot;}, {&quot;src&quot;: &quot;recentes/chp/ppi/20261120_114204.png&quot;, &quot;rotulo&quot;: &quot;20/11 08:42 local · 11:42 UTC&quot;}, {&quot;src&quot;: &quot;recentes/chp/ppi/20261120_114804.png&quot;, &quot;rotulo&quot;: &quot;20/11 08:48 local · 11:48 UTC&quot;}, {&quot;src&quot;: &quot;recentes/chp/ppi/20261120_115404.png&quot;, &quot;rotulo&quot;: &quot;20/11 08:54 local · 11:54 UTC&quot;}, {&quot;src&quot;: &quot;recentes/chp/ppi/20261120_120004.png&quot;, &quot;rotulo&quot;: &quot;20/11 09:00 local · 12:00 UTC&quot;}, {&quot;src&quot;: &quot;recentes/chp/ppi/20261120_120604.png&quot;, &quot;rotulo&quot;: &quot;20/11 09:06 local · 12:06 UTC&quot;}, {&quot;src&quot;: &quot;recentes/chp/ppi/20261120_121205.png&quot;, &quot;rotulo&quot;: &quot;20/11 09:12 local · 12:12 UTC&quot;}, {&quot;src&quot;: &quot;recentes/chp/ppi/20261120_121805.png&quot;, &quot;rotulo&quot;: &quot;20/11 09:18 local · 12:18 UTC&quot;}, {&quot;src&quot;: &quot;recentes/chp/ppi/20261120_122405.png&quot;, &quot;rotulo&quot;: &quot;20/11 09:24 local · 12:24 UTC&quot;}, {&quot;src&quot;: &quot;recentes/chp/ppi/20261120_123005.png&quot;, &quot;rotulo&quot;: &quot;20/11 09:30 local · 12:30 UTC&quot;}, {&quot;src&quot;: &quot;recentes/chp/ppi/20261120_123605.png&quot;, &quot;rotulo&quot;: &quot;20/11 09:36 local · 12:36 UTC&quot;}, {&quot;src&quot;: &quot;recentes/chp/ppi/20261120_124205.png&quot;, &quot;rotulo&quot;: &quot;20/11 09:42 local · 12:42 UTC&quot;}, {&quot;src&quot;: &quot;recentes/chp/ppi/20261120_124805.png&quot;, &quot;rotulo&quot;: &quot;20/11 09:48 local · 12:48 UTC&quot;}, {&quot;src&quot;: &quot;recentes/chp/ppi/20261120_125405.png&quot;, &quot;rotulo&quot;: &quot;20/11 09:54 local · 12:54 UTC&quot;}, {&quot;src&quot;: &quot;recentes/chp/ppi/20261120_130005.png&quot;, &quot;rotulo&quot;: &quot;20/11 10:00 local · 13:00 UTC&quot;}, {&quot;src&quot;: &quot;recentes/chp/ppi/20261120_130605.png&quot;, &quot;rotulo&quot;: &quot;20/11 10:06 local · 13:06 UTC&quot;}, {&quot;src&quot;: &quot;recentes/chp/ppi/20261120_131205.png&quot;, &quot;rotulo&quot;: &quot;20/11 10:12 local · 13:12 UTC&quot;}, {&quot;src&quot;: &quot;recentes/chp/ppi/20261120_131805.png&quot;, &quot;rotulo&quot;: &quot;20/11 10:18 local · 13:18 UTC&quot;}, {&quot;src&quot;: &quot;recentes/chp/ppi/20261120_132405.png&quot;, &quot;rotulo&quot;: &quot;20/11 10:24 local · 13:24 UTC&quot;}, {&quot;src&quot;: &quot;recentes/chp/ppi/20261120_133005.png&quot;, &quot;rotulo&quot;: &quot;20/11 10:30 local · 13:30 UTC&quot;}, {&quot;src&quot;: &quot;recentes/chp/ppi/20261120_133605.png&quot;, &quot;rotulo&quot;: &quot;20/11 10:36 local · 13:36 UTC&quot;}, {&quot;src&quot;: &quot;recentes/chp/ppi/20261120_134205.png&quot;, &quot;rotulo&quot;: &quot;20/11 10:42 local · 13:42 UTC&quot;}, {&quot;src&quot;: &quot;recentes/chp/ppi/20261120_134805.png&quot;, &quot;rotulo&quot;: &quot;20/11 10:48 local · 13:48 UTC&quot;}, {&quot;src&quot;: &quot;recentes/chp/ppi/20261120_135405.png&quot;, &quot;rotulo&quot;: &quot;20/11 10:54 local · 13:54 UTC&quot;}, {&quot;src&quot;: &quot;recentes/chp/ppi/20261120_140005.png&quot;, &quot;rotulo&quot;: &quot;20/11 11:00 local · 14:00 UTC&quot;}, {&quot;src&quot;: &quot;recentes/chp/ppi/20261120_140605.png&quot;, &quot;rotulo&quot;: &quot;20/11 11:06 local · 14:06 UTC&quot;}, {&quot;src&quot;: &quot;recentes/chp/ppi/20261120_141205.png&quot;, &quot;rotulo&quot;: &quot;20/11 11:12 local · 14:12 UTC&quot;}]"><div class="quadro"><img src="recentes/chp/ppi/20261120_141205.png" alt="Chapecó (Defesa Civil SC) · refletividade, elevação mais baixa"></div><div class="controles"><button type="button" class="tocar" aria-label="Tocar">▶</button><input type="range" min="0" max="79" value="79" aria-label="Quadro"><select aria-label="Velocidade"><option value="900">lento</option><option value="450" selected>normal</option><option value="180">rápido</option></select><output>20/11 11:12 local · 14:12 UTC</output></div><figcaption><h2>Chapecó (Defesa Civil SC) · refletividade, elevação mais baixa</h2><p>80 quadros, de 20/11 03:18 local · 06:18 UTC a 20/11 11:12 local · 14:12 UTC.</p></figcaption></figure></main>
+<footer>Atualizado em 20/11/2026 11:31 local (14:31 UTC). Fonte: Defesa Civil de SC.</footer>
 <script>
 document.querySelectorAll('.laco').forEach(fig => {
   const q = JSON.parse(fig.dataset.quadros), img = fig.querySelector('img'), faixa = fig.querySelector('input'),

diff --git a/relevo_sigsc.py b/relevo_sigsc.py
@@ -41,8 +41,10 @@ class Mosaico:
         self.crs = ds[0].crs
         nod = ds[0].nodata
         if res <= 1.5:
-            arr, self.transform = merge(ds, bounds=limites, res=res, nodata=np.nan if nod is None else nod,
-                                        resampling=Resampling.nearest, dtype="float32")
+            # As folhas não têm nodata declarado e trazem uma moldura de 0 e -9999 nas bordas, que se sobrepõe
+            # à folha vizinha (~270 m). Com method="max" o valor real da vizinha prevalece sobre a moldura.
+            arr, self.transform = merge(ds, bounds=limites, res=res, nodata=-9999.0 if nod is None else nod,
+                                        resampling=Resampling.nearest, dtype="float32", method="max")
             a = arr[0].astype("float32")
         else:
             # Máximo em blocos res x res, folha por folha (o rasterio não lê com Resampling.max)

diff --git a/relatorio/RELATORIO_ARARANGUA.md b/relatorio/RELATORIO_ARARANGUA.md
@@ -12,8 +12,8 @@ Dados: 7 volumes do FTP da Defesa Civil de SC, de 16/11 23:58 a 19/11 23:36 UTC.
 
    | Antena 25 m acima do chão, mata de 15 m | Média, 30 km (0,5° / 1,4°) | Média, 60 km (0,5° / 1,4°) | Oeste, 30 km (0,5° / 1,4°) |
    |---|---|---|---|
-   | Atual, antena como está hoje (~3 m) | 42% / 28% | 47% / 31% | 87% / 74% |
-   | **Atual, com torre de 25 m** | **14% / 0%** | **32% / 7%** | **18% / 0%** |
+   | Atual, -28,93455, -49,36249, antena como está hoje (~3 m) | 42% / 28% | 47% / 31% | 87% / 74% |
+   | **Atual, -28,93455, -49,36249, com torre de 25 m** | **14% / 0%** | **32% / 7%** | **18% / 0%** |
    | Topo da colina a NW, -28,92524, -49,37070 | 15% / 0% | 33% / 8% | 19% / 0% |
    | Topo do Morro dos Conventos, -28,93725, -49,36762 | 14% / 0% | 32% / 8% | 17% / 0% |
    | Morro das Antenas, -28,84387, -49,39876 | 6% / 0% | 30% / 9% | 15% / 1% |
@@ -76,6 +76,8 @@ Método: bloqueio parcial do feixe (Bech et al., 2003), com Terra de raio efetiv
 - O mesmo MDT reduzido a 5 m, guardando o máximo de cada bloco (o lado seguro), no resto das três folhas.
 - SRTM de 30 m fora delas.
 
+As folhas 1:10.000 do SIGSC não declaram nodata e têm nas bordas uma moldura de 0 e −9999 m que se sobrepõe ~270 m à folha vizinha. Na primeira montagem, essa moldura aparecia como uma faixa de 0 m cortando o morro a −49,376° (emenda entre SH-22-X-B-IV-3-SO-D e SE-C). O mosaico agora usa o maior valor nas sobreposições, o que elimina a faixa. Refeitas as contas, nenhum número do relatório mudou: a faixa era um vale falso e ficava fora dos caminhos que bloqueiam o feixe.
+
 Mata e casas entram como altura somada ao terreno em terra firme. Os primeiros 100 m não entram: ali o feixe ainda está em campo próximo.
 
 **Calibração com os volumes observados:**
@@ -106,6 +108,15 @@ Cada prédio ocupa uma fração pequena de grau em azimute (20 m a 12 km dá 0,1
 ![Bloqueio simulado: posição atual e as duas alternativas](figuras/v2_pbb_posicoes.png)
 
 ## 5. Posições alternativas
+
+Posições estudadas (WGS84; chão pelo MDT do SIGSC; distância e azimute a partir do radar atual):
+
+| Posição | Latitude | Longitude | Chão no MDT | Distância / azimute |
+|---|---|---|---|---|
+| Atual (radar) | -28,934548 | -49,362490 | 67,8 m | — |
+| Topo da colina a NW | -28,925236 | -49,370698 | 67,2 m | 1,31 km / 322° |
+| Topo do Morro dos Conventos | -28,937250 | -49,367620 | 69,2 m | 0,58 km / 239° |
+| Morro das Antenas | -28,843869 | -49,398756 | 255,1 m | 10,66 km / 341° |
 
 Bloqueio médio, MDT + mata (sensibilidade completa em `sensibilidade_v2.csv` e `sensibilidade_colina.csv`):
 
